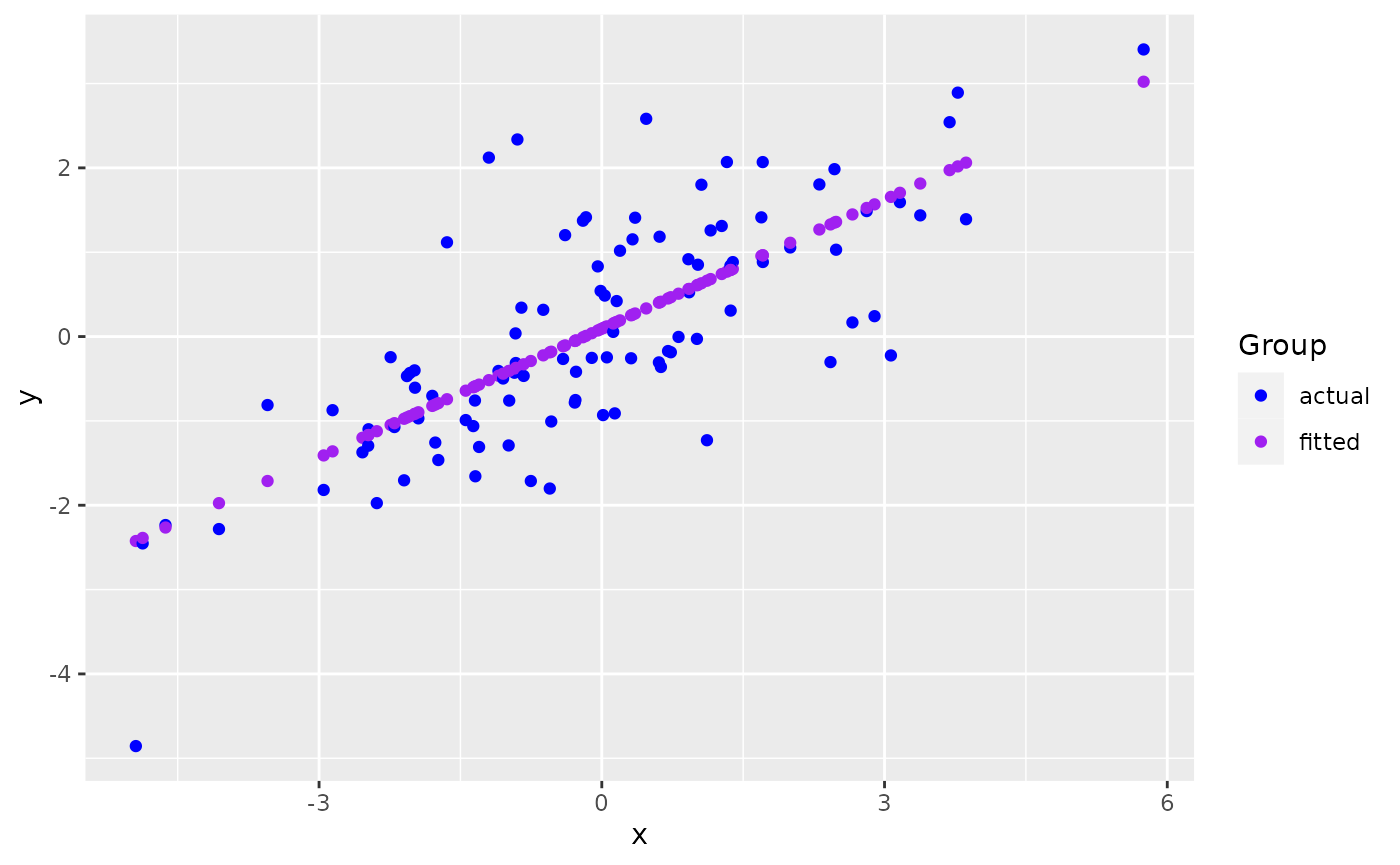
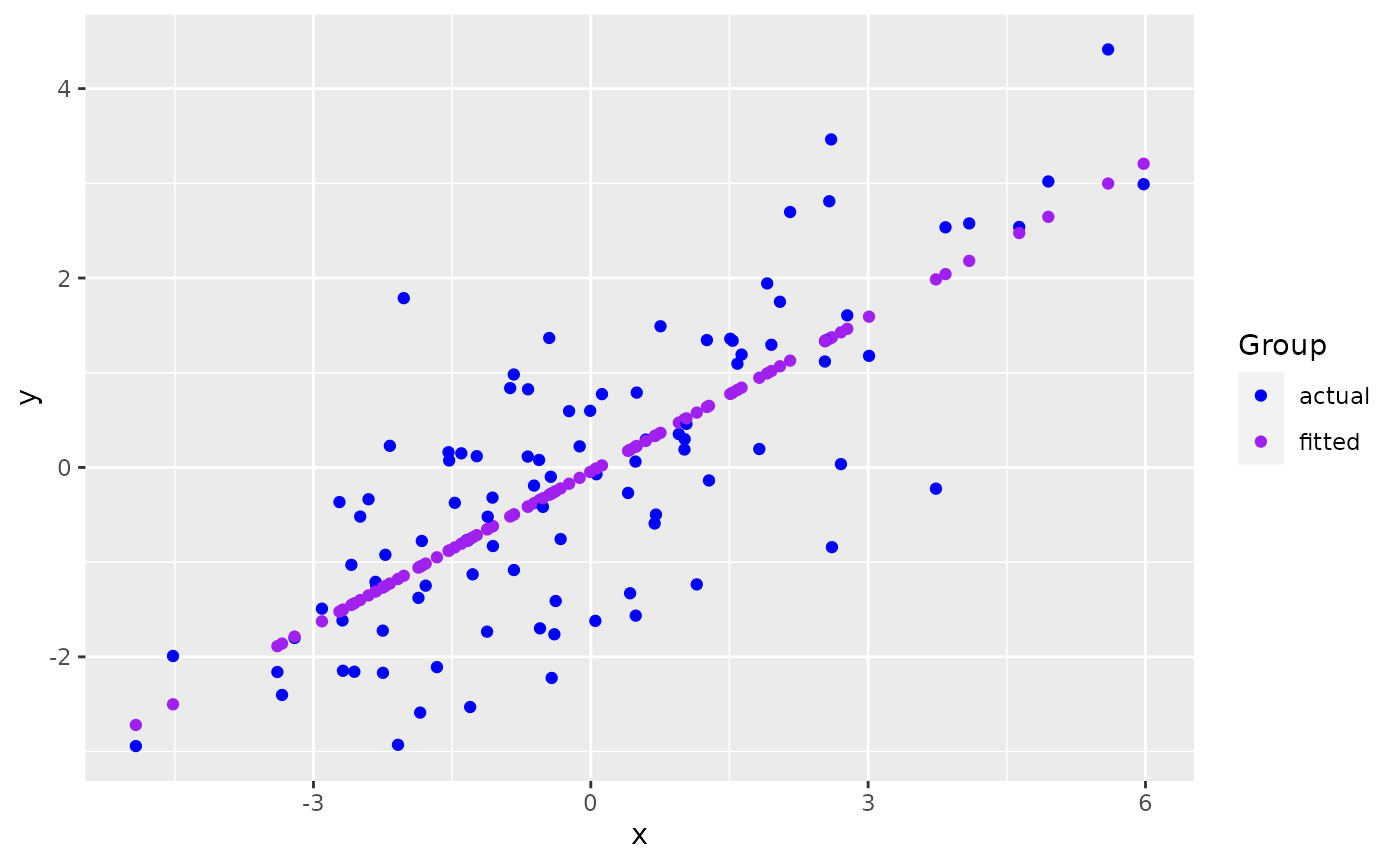
Built site for ggmatplot: 0.1.0@5c5e520

diff --git a/articles/ggmatplot.html b/articles/ggmatplot.html
@@ -101,7 +101,7 @@
 <span class="va">x</span> <span class="op">&lt;-</span> <span class="fu"><a href="https://rdrr.io/r/base/c.html">c</a></span><span class="op">(</span><span class="fu"><a href="https://rdrr.io/r/stats/Normal.html">rnorm</a></span><span class="op">(</span><span class="fl">100</span>, sd <span class="op">=</span> <span class="fl">2</span><span class="op">)</span><span class="op">)</span>
 
 <span class="fu"><a href="https://rdrr.io/r/utils/head.html">head</a></span><span class="op">(</span><span class="va">x</span><span class="op">)</span>
-<span class="co">#&gt; [1]  0.1378465 -4.6293691 -0.8530607 -2.4749729  3.6905429 -2.0674694</span>
+<span class="co">#&gt; [1]  0.4832008 -2.9084740 -2.4046337  2.7738027 -2.1737957  1.2556798</span>
 
 <span class="co"># matrix z</span>
 <span class="va">y</span> <span class="op">&lt;-</span> <span class="va">x</span> <span class="op">*</span> <span class="fl">0.5</span> <span class="op">+</span> <span class="fu"><a href="https://rdrr.io/r/stats/Normal.html">rnorm</a></span><span class="op">(</span><span class="fl">100</span>, sd <span class="op">=</span> <span class="fl">1</span><span class="op">)</span>
@@ -110,13 +110,13 @@
            fitted <span class="op">=</span> <span class="va">fit.y</span><span class="op">)</span>
 
 <span class="fu"><a href="https://rdrr.io/r/utils/head.html">head</a></span><span class="op">(</span><span class="va">z</span><span class="op">)</span>
-<span class="co">#&gt;       actual     fitted</span>
-<span class="co">#&gt; 1 -0.9108261  0.1637694</span>
-<span class="co">#&gt; 2 -2.2348073 -2.2641433</span>
-<span class="co">#&gt; 3  0.3425277 -0.3408934</span>
-<span class="co">#&gt; 4 -1.0990131 -1.1669230</span>
-<span class="co">#&gt; 5  2.5416952  1.9731352</span>
-<span class="co">#&gt; 6 -0.4686280 -0.9593840</span></code></pre></div>
+<span class="co">#&gt;        actual     fitted</span>
+<span class="co">#&gt; 1  0.06180734  0.2185760</span>
+<span class="co">#&gt; 2 -1.49130326 -1.6251791</span>
+<span class="co">#&gt; 3 -0.33577680 -1.3512855</span>
+<span class="co">#&gt; 4  1.60601531  1.4637747</span>
+<span class="co">#&gt; 5  0.22807288 -1.2257991</span>
+<span class="co">#&gt; 6  1.34490615  0.6385049</span></code></pre></div>
 <p><code>ggmatplot</code> plots vector <code>x</code> against each column of matrix <code>z</code> using the default <code>plot_type = "point"</code>. This will be represented on the resulting plot as two groups, identified using different shapes and colors.</p>
 <div class="sourceCode" id="cb2"><pre class="downlit sourceCode r">
 <code class="sourceCode R"><span class="kw"><a href="https://rdrr.io/r/base/library.html">library</a></span><span class="op">(</span><span class="va"><a href="https://github.com/xuan-liang/ggmatplot">ggmatplot</a></span><span class="op">)</span>
